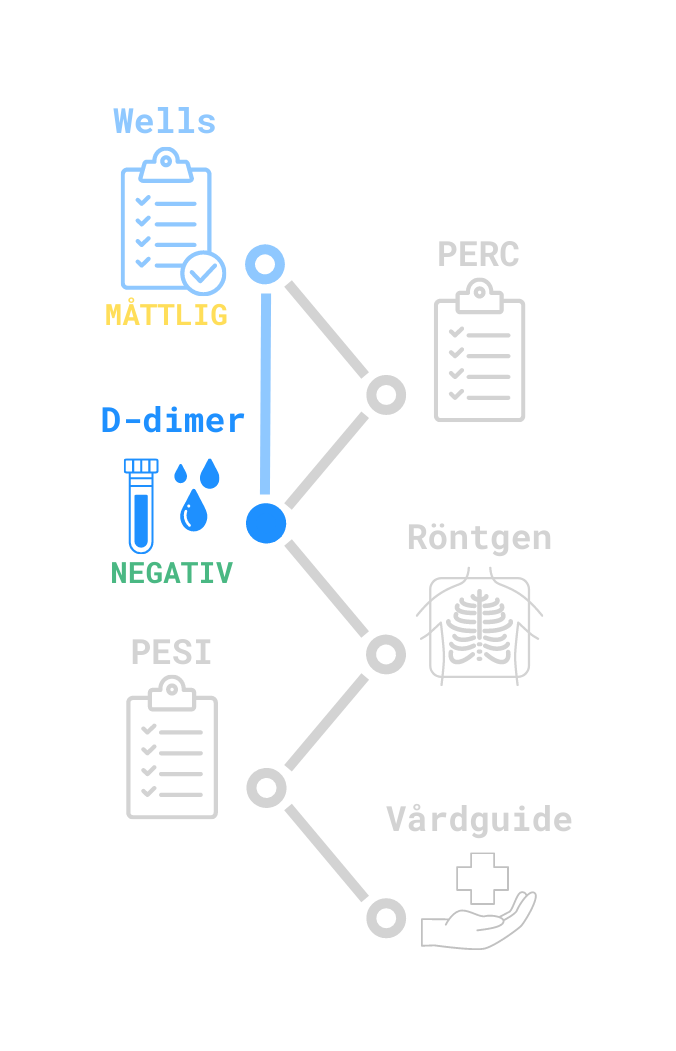
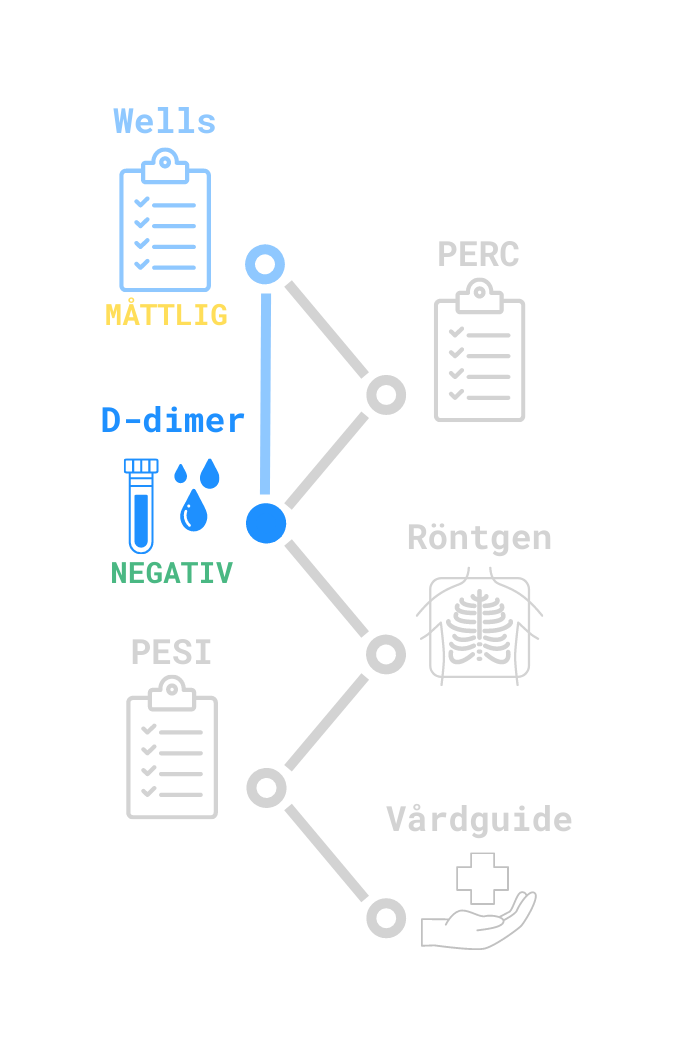
.

Changed region(s): [[0.1553, 0.1218, 0.3417, 0.3045]]

diff --git a/functions/f.py b/functions/f.py
@@ -153,7 +153,7 @@ def display_flow_v2():
     elif 2 < st.session_state["total_score_pe"] < 6.5:
         img_path = "måttlig/måttlig"
         if "D-dimer_påbörjad" in st.session_state:
-            img_path = "måttlig/måttlig_unknown"
+            img_path = "måttlig/måttlig_påbörjad"
         if st.session_state["Ddimer_status"] == "positive":
             img_path = "måttlig/måttlig_positive"
         elif st.session_state["Ddimer_status"] == "negative":
